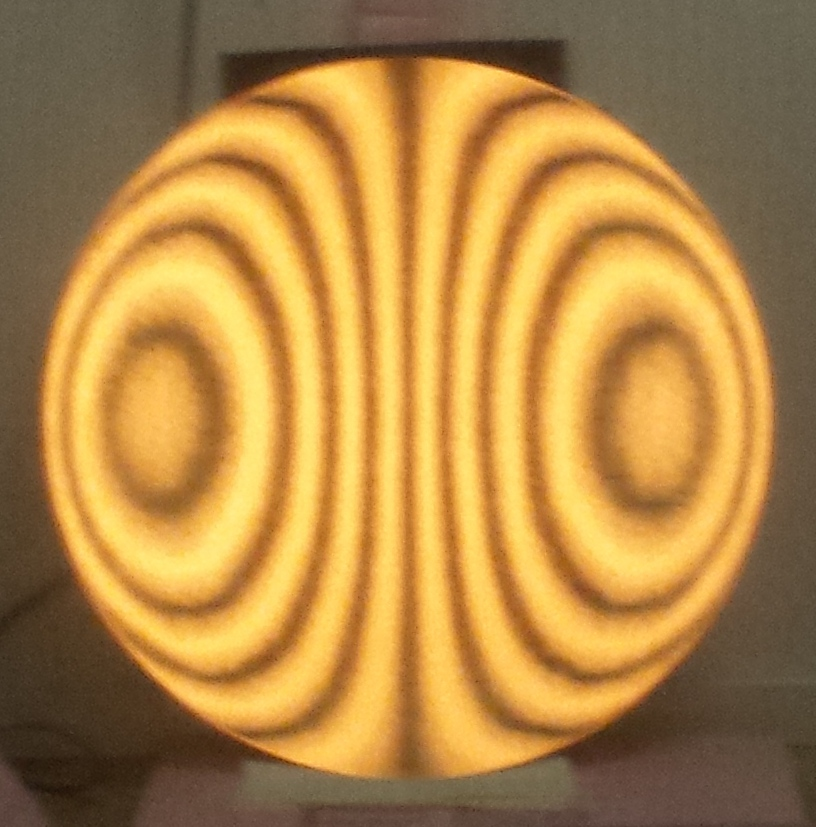
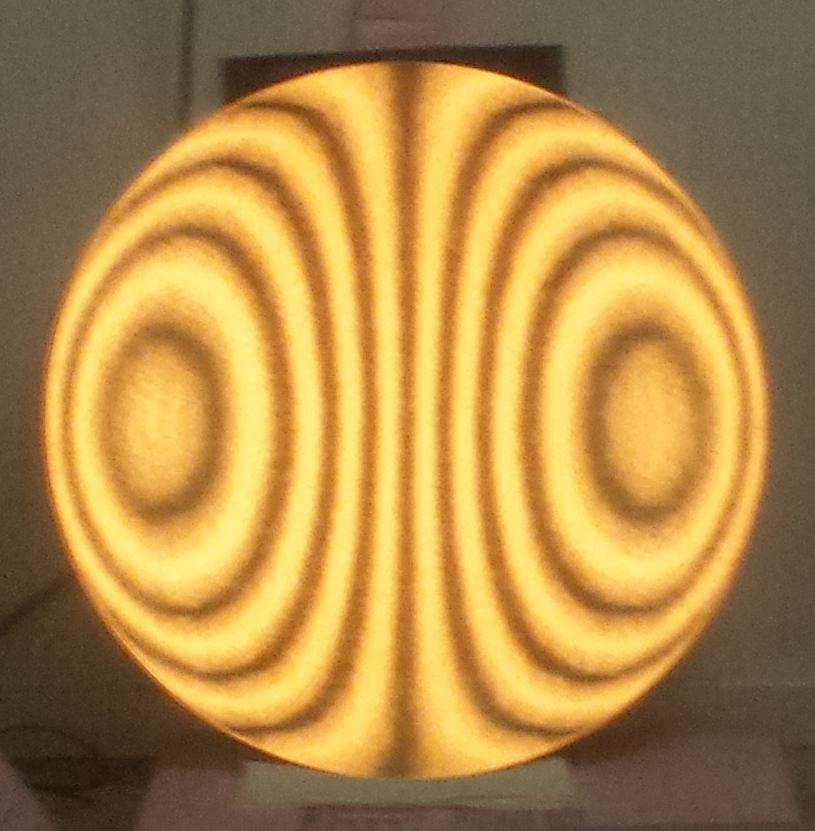
Editing wording. Swapped out for latest 25" Ronchi example.

diff --git a/ronchi.html b/ronchi.html
@@ -108,7 +108,7 @@
 <div>
 	<h4>Ronchi Layers Test</h4>
 	<p>By laying the mirror's actual Ronchigram over the computed Ronchigram, the mirror's smoothness and overall correction can be evaluated. The sensitivity of this test is surprisingly high: I'ved parabolized 6" f2.8, 10.5" f2.7 and 25.1" f2.6 mirrors using the Ronchi Layers Test verified by the star test. All these mirrors passing the critical star test with sensibly identical out of focus star disks and diagonal breakout distances. And this test is quick: take a Ronchigram with the phone, copy to webpage, adjust the grating offset along with any image parameters, then inspect for high and low zones to determine next parabolizing work session.</p>
-	<p>Paste your mirror's Ronchigram into the browser then compare.</p>
+	<p>Paste your mirror's Ronchigram into the browser then compare (you may have to first open the image in a program then copy from there).</p>
 
 	Show pasted image?
 	<input name='pastedImageActive' value='yes' type='radio'>yes
@@ -302,6 +302,16 @@
     </p>
     <h4>Here are some examples to give you an idea how critically the Ronchi bands need to be judged.</h4>
     <p>
+        Here's a 13.2 inch [34cm] F3.0 mirror (2008). I took great care to match the bands exactly including no turned edge, not knowing exactly how critical F3.0 required. However, there does appear to be a hint of a kink in the bands at the 70% zone. It does not show in the star test however. The results at the eyepiece are very pleasing at high powers.<br>
+        <img src='JoyOfMirrorMaking/13 inch F3 ronchi results.png' class='smallImage'>
+        <img src='JoyOfMirrorMaking/13 inch F3 ronchi theoretical.png' class='smallImage'>
+    </p>
+    <p>
+        Here's my 24 inch [61cm] f6 from the early 1980's. The Ronchigram shows issues including a zonal kink at 50%, flat edge zones and an edge problem from the sling (slings are a gift from the Devil). Nonetheless, the mirror performed wonderfully at full aperture on planets at the highest powers and was tested professsionally at 1/4 wavefront.<br>
+        <img src='JoyOfMirrorMaking/24 inch Ronchigram.jpg' class='smallImage'>
+        <img src='JoyOfMirrorMaking/24 inch Ronchigram theoretical.jpg' class='smallImage'>
+    </p>
+    <p>
         Here is a 14 inch [36cm] F5 mirror (1978). The curves look very close with no turned edge. This mirror proved an excellent performer both on deep sky and on planetary with a reduced size diagonal.<br>
         <img src='JoyOfMirrorMaking/14 inch F5 ronchi results.png' class='smallImage'>
         <img src='JoyOfMirrorMaking/14 inch F5 ronchi theoretical.png' class='smallImage'>
@@ -312,53 +322,8 @@
         <img src='JoyOfMirrorMaking/10 inch F5 ronchi theoretical.png' class='smallImage'>
     </p>
     <p>
-        Here's a 20.5 inch [52cm] F5 mirror (1993). The curves match nicely (somewhat hard to see because of bad seeing). This mirror has proved to be one of my best mirrors, used regularly for critical high power observing at 800x. One night of perfect seeing we were able to up the magnification to 6000x with perfect star images.<br>
-        <img src='JoyOfMirrorMaking/20 inch f5 Ronchi results.png' class='smallImage'>
-        <img src='JoyOfMirrorMaking/20 inch F5 ronchi theoretical.png' class='smallImage'>
-    </p>
-    <p>
-        Here's a 4 inch [10cm] F4 mirror (1972).The bands on the mirror's surface are slightly under-curved. Nonetheless, this proved to be an excellently performing mirror.<br>
-        <img src='JoyOfMirrorMaking/4 inch F4 ronchi results.png' class='smallImage'>
-        <img src='JoyOfMirrorMaking/4 inch F4 ronchi theoretical.png' class='smallImage'>
-    </p>
-    <p>
-        Here's a 15.5 inch [39cm] F5.5 mirror (1980). Unfortunately I did not record an outside of radius of curvature image, nonetheless, the bands look smoothly curving and of proper amplitude with a hint of overall undercorrection.<br>
-        <img src='JoyOfMirrorMaking/15.5 inch F5.5 ronchi results.png' class='smallImage'>
-        <img src='JoyOfMirrorMaking/15.5 inch F5.5 ronchi theoretical.png' class='smallImage'>
-    </p>
-    <p>
-        Here's a 13.2 inch [34cm] F3.0 mirror (2008). I took great care to match the bands exactly including no turned edge, not knowing exactly how critical F3.0 required. However, there does appear to be a hint of a kink in the bands at the 70% zone. It does not show in the star test however. The results at the eyepiece are very pleasing at high powers.<br>
-        <img src='JoyOfMirrorMaking/13 inch F3 ronchi results.png' class='smallImage'>
-        <img src='JoyOfMirrorMaking/13 inch F3 ronchi theoretical.png' class='smallImage'>
-    </p>
-    <p>
-        Here's a 6 inch [15cm] F2.8 mirror (2013). The star test looks very good: excellent overall correction with a touch of overcorrection in the 50-80% zones.<br>
-        <img src='JoyOfMirrorMaking/6 inch final Ronchigram outside RoC.jpg' class='smallImage'>
-        <img src='JoyOfMirrorMaking/6 inch target outside RoC Ronchigram.jpg' class='smallImage'>
-    </p>
-    <p>
-        Here's a 10.5 inch [27cm] F2.7 mirror (2013). The star test shows diagonal shadow breakout the same in both directions but with the above focus position showing a brighter ring around the diagonal and the below focus position showing a brighter ring on the outside meaning that the outer 15% is very slightly overcorrected and the inner 85% is very slightly undercorrected. Star test pattern improves as the mirror cools to ambient air temperature. These issues are very slight.<br>
-        <img src='JoyOfMirrorMaking/10.5 inch final Ronchigram outside RoC.jpg' class='smallImage'>
-        <img src='JoyOfMirrorMaking/10 inch target outside RoC Ronchigram.jpg' class='smallImage'>
-    </p>
-    <p>
-        Here's another 12.5 inch [32cm] f3.9 mirror made by Jerry Oltion. It gives a perfect star test with the slightest hint of a narrow turned edge. Jerry is using the old DOS version of my Ronchigram softaware.<br>
+        Here's a 12.5 inch [32cm] f3.9 mirror made by Jerry Oltion. It gives a perfect star test with the slightest hint of a narrow turned edge. Jerry is using the old DOS version of my Ronchigram softaware.<br>
         <img src='JoyOfMirrorMaking/Jerry 12.5 inch Ronchigrams Nov 2015.jpg'>
-    </p>
-    <p>
-        Here's my old 24 inch [61cm] f6 from the early 1980's. The Ronchigram shows issues including a zonal kink at 50%, flat edge zones and an edge problem from the sling (slings are a gift from the Devil). Nonetheless, the mirror performed wonderfully at full aperture on planets at the highest powers and was tested professsionally at 1/4 wavefront.<br>
-        <img src='JoyOfMirrorMaking/24 inch Ronchigram.jpg' class='smallImage'>
-        <img src='JoyOfMirrorMaking/24 inch Ronchigram theoretical.jpg' class='smallImage'>
-    </p>
-    <p>
-        This is a 25 inch F3.0, Ronchigram from a Cloudynight's classified ad<br>
-        <img src='JoyOfMirrorMaking/Mike_Linnolt_25_inch_f3_Ronchigram.jpg' class='smallImage'>
-        <img src='JoyOfMirrorMaking/25 inch f3.0 theoretical Ronchigram 65 lpi 0.87 offset.jpg' class='smallImage'>
-    </p>
-    <p>
-        Here's a 36 inch f4 mirror professionally made to 1/4 wave. You can see the kink and overcorrection in the outer zones. The star test was iffy at highest powers. This demonstrates that the Ronchi test can be used successfully on large fast mirrors.<br>
-        <img src='JoyOfMirrorMaking/36 inch f4 Casino Ronchigram.jpg' class='smallImage'>
-        <img src='JoyOfMirrorMaking/36 inch f4 Casino simulated Ronchigram.jpg' class='smallImage'>
     </p>
     <h4>The Ronchi test and the process of figuring</h4>
     <p>
@@ -368,12 +333,12 @@
         The Ronchi test is best thought of as a part of the figuring process. Judging the 'after figure' against the 'before figure' in order to decide what to do next is the most important question to ask and answer. Perhaps you are concentrating on the 50% zone because it is a tad too high (the Ronchi bands look too curvy at the 50% zone as you slide your Ronchi tester back and forth, watching the bands expand, change shape then contract). So you adopt a figuring stroke or modify the pitch lap so as to concentrate on the 50% for a couple of minutes. It is straightforward to see if the figuring stroke made the 50% zone better (slightly smoother curve). The technique is precisely that: slide the focuser back and forth, from inside radius of curvature to outside. Judge what zone or zones the figure bends more than not. If you are careful and take a modicum of time, then you will become quite good at Ronchi testing while figuring your first or second mirror.
     </p>
     <p>
-        Overall correction, that is, is the mirror 100% corrected or is it ever so slightly under or overcorrected, is harder to see. That's where the star test jumps into the fray. The star test, comparing the inside of focus star pattern to the outside of focus star pattern, is exquisitely sensitive to overall correction. There is every expectation that a mirror can be figured to a standard of 'indistinguishable from perfect' when using matching Ronchi test in combination with the star test. Usually this only comes into play during the final stage of figuring. I use the indoor star test when possible. Once I adjust the overall correction then I return to the Ronchi test to get the correct curve in each mirror zone.<br>
+        Overall correction, that is, is the mirror 100% corrected or is it ever so slightly under or overcorrected, is harder to see. That's where the star test jumps into the fray. The star test, comparing the inside of focus star pattern to the outside of focus star pattern, is exquisitely sensitive to overall correction. There is every expectation that a mirror can be figured to a standard of 'indistinguishable from perfect' when using matching Ronchi test in combination with the star test. Usually this only comes into play during the final stage of figuring. I use the indoor star test when possible. Once I adjust the overall correction then I return to the Ronchi test to get the correct curve in each mirror zone.
+	</p>
+	<p>
+		My trusty tester that I've used for countless mirrors over 40 years.<br>
         <img src='JoyOfMirrorMaking/Ronchi frontside.jpg'>
         <img src='JoyOfMirrorMaking/Ronchi backside.jpg'>
-    </p>
-    <p>
-        As the figure takes shape and errors are no longer obvious, take the time and care to judge the bands very critically. Be discriminating to a deviation of one-tenth the thickness of a band. Position the tester to a hundredth of an inch (1/4 millimeter) using an engineering ruler. Testing in the final stages can take many minutes. Finally, regardless of the test used, strongly consider verifying results against a second test.
     </p>
     <p>
         See my pages on polishing and parabolizing mirrors where I discuss how to use the Ronchi test during figuring.<br>

diff --git a/lib/Ronchi.js b/lib/Ronchi.js
@@ -13,7 +13,7 @@ MLB.ronchi.constants = {
     gratingOffsetDecimalPrecision: 2,
     pastedImageLit: 'pastedImage',
     exampleImages:  {
-        '25': [25.1, 131, 65, 0.78, 400, 10, true, 0.75, 442, 459, -11, -22, 'RonchiExamples/25 example.jpg'],
+        '25': [25.1, 131, 65, 0.784, 400, 10, true, 0.75, 448, 465, -13, -24, 'RonchiExamples/25 example.jpg'],
         '10': [10.4, 58.4, 100, 0.365, 400, 10, true, 0.9, 416, 428, 7, -5, 'RonchiExamples/10 example.jpg'],
         '6': [5.9, 33.9, 100, 0.294, 400, 10, true, 0.9, 530, 496, -60, -40, 'RonchiExamples/6 example.jpg']
     },
